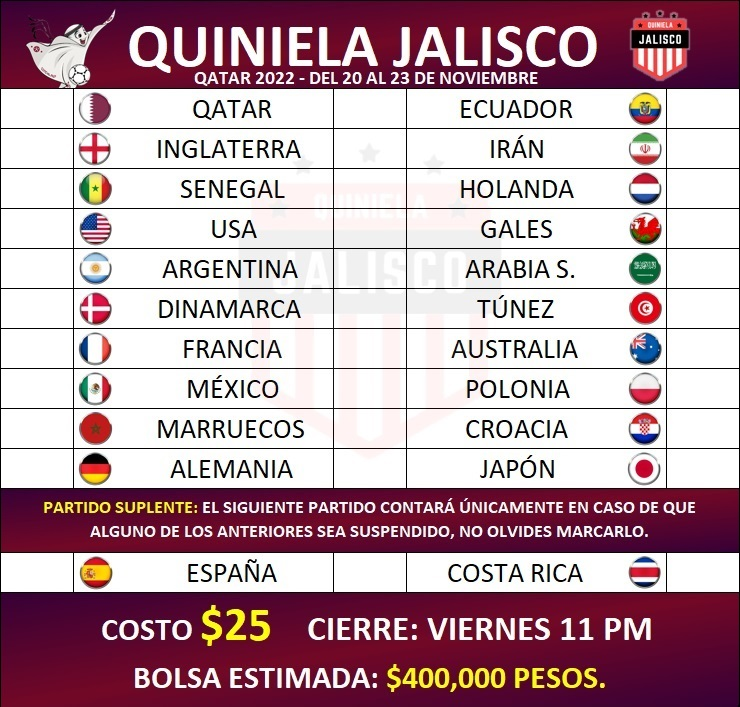
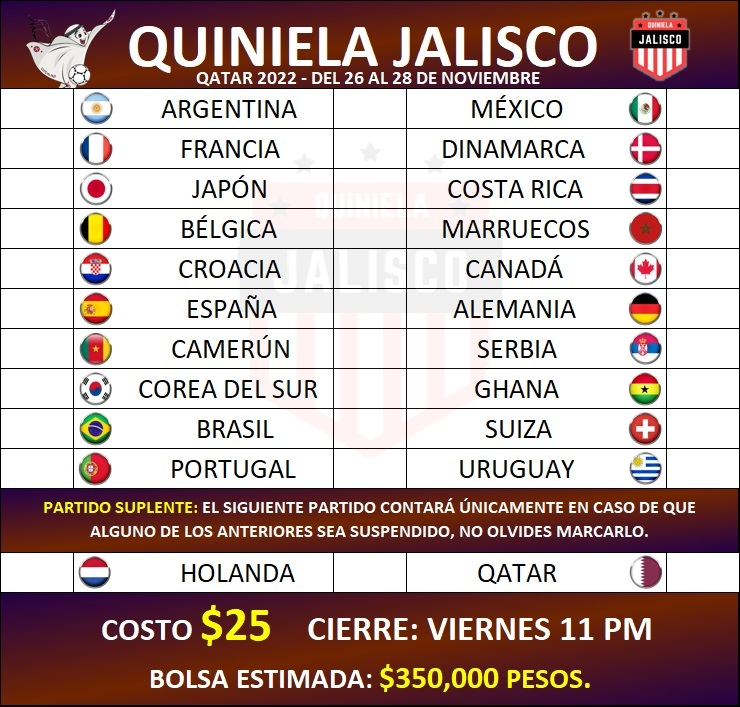
Qatar 2022 2

diff --git a/11/styles11.css b/11/styles11.css
@@ -9,7 +9,7 @@ body{
     max-width: 400px;
     margin: auto;
     background-color: rgb(6,12,37);
-    background-image: url("../bg/fondo18.jpg");
+    background-image: url("../bg/fondo16.jpg");
     background-repeat: repeat-y ;
     background-position: top;
 }
@@ -89,12 +89,12 @@ body{
 #text{
     font-weight: bold;
     text-align: center;
-    color: #ffe000;
+    color: #fbff00;
     margin-top: 9%;
     border-top: solid 1px black;
     border-radius: 0 0 14px 14px;
-    background: -webkit-linear-gradient(0.49turn, rgb(93,5,43)  ,rgb(51,2,23) 80%);
-    background: linear-gradient(0.49turn, rgb(93,5,43)  ,rgb(51,2,23) 80%);
+    background: -webkit-linear-gradient(0.51turn, rgb(107,37,3)  ,rgb(51,2,23) 80%);
+    background: linear-gradient(0.51turn, rgb(107,37,3)  ,rgb(51,2,23) 80%);
 }
 
 .text-lg{
@@ -287,12 +287,12 @@ h6{
 #bolsatxt:before{
     content:'Bolsa estimada: ';
     white-space: pre;
-    color: #630000;
+    color: white;
     text-shadow: 0 0 black;
 }
 
 #cantidad:before{
-    content:'$400,000 pesos';
+    content:'$350,000 pesos';
     color: yellow;
     white-space:pre;
 }
